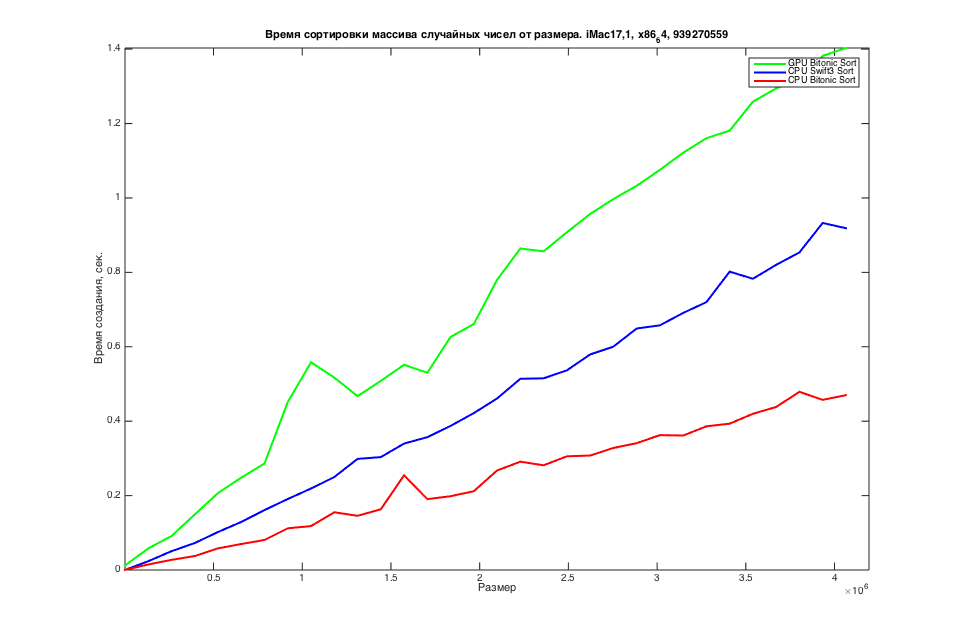
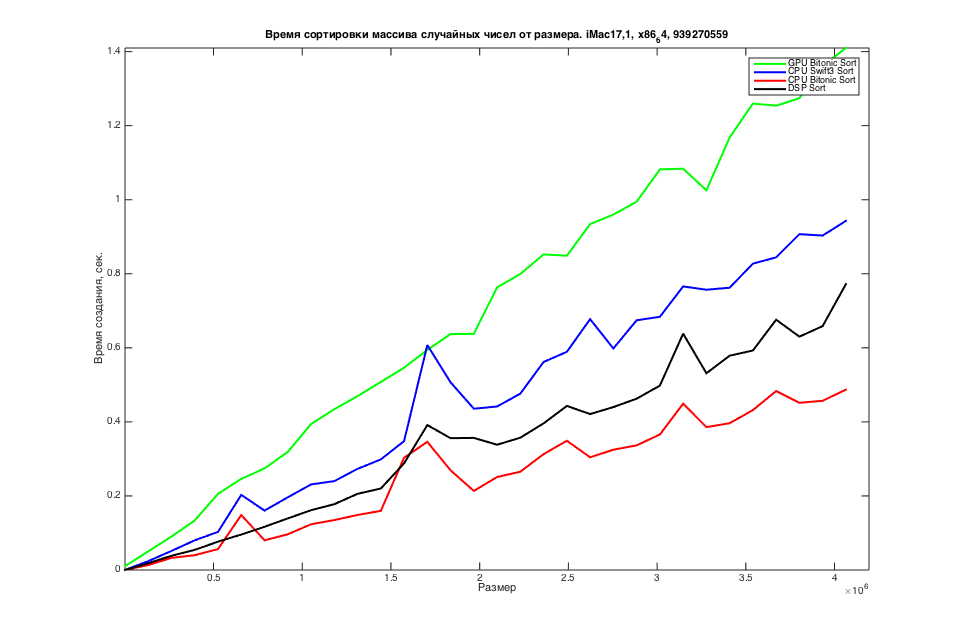
dsp sorting fixed

diff --git a/HLParallelSorting/HLParallelSorting/Classes/Test.swift b/HLParallelSorting/HLParallelSorting/Classes/Test.swift
@@ -136,7 +136,7 @@ public func test() {
     t30 = NSDate.timeIntervalSinceReferenceDate
     for _ in 0..<times {
         array = [Float](randomGPU.array)
-        vDSP_vsort(&array, vDSP_Length(), 1)
+        vDSP_vsort(&array, vDSP_Length(array.count), 1)
     }
     t31 = NSDate.timeIntervalSinceReferenceDate
     print("# ... DSP sorting done, time = \((t31-t30)/TimeInterval(times))")
@@ -225,7 +225,7 @@ public func testSortProgression(){
             let t40 = NSDate.timeIntervalSinceReferenceDate
             for _ in 0..<times {
                 var array = [Float](randomGPU.array)
-                vDSP_vsort(&array, vDSP_Length(), 1)
+                vDSP_vsort(&array, vDSP_Length(array.count), 1)
             }
             let t41 = NSDate.timeIntervalSinceReferenceDate
             let t4 = Float(t41-t40)/Float(times)

diff --git a/HLParallelSorting/HLParallelSorting/ViewController.swift b/HLParallelSorting/HLParallelSorting/ViewController.swift
@@ -14,9 +14,9 @@ class ViewController: UIViewController {
     
     override func viewDidLoad() {
         super.viewDidLoad()
-        test()
+        //test()
         //testRandomProgression()
-        //testSortProgression()
+        testSortProgression()
         //test2SortProgression()
     }
     
